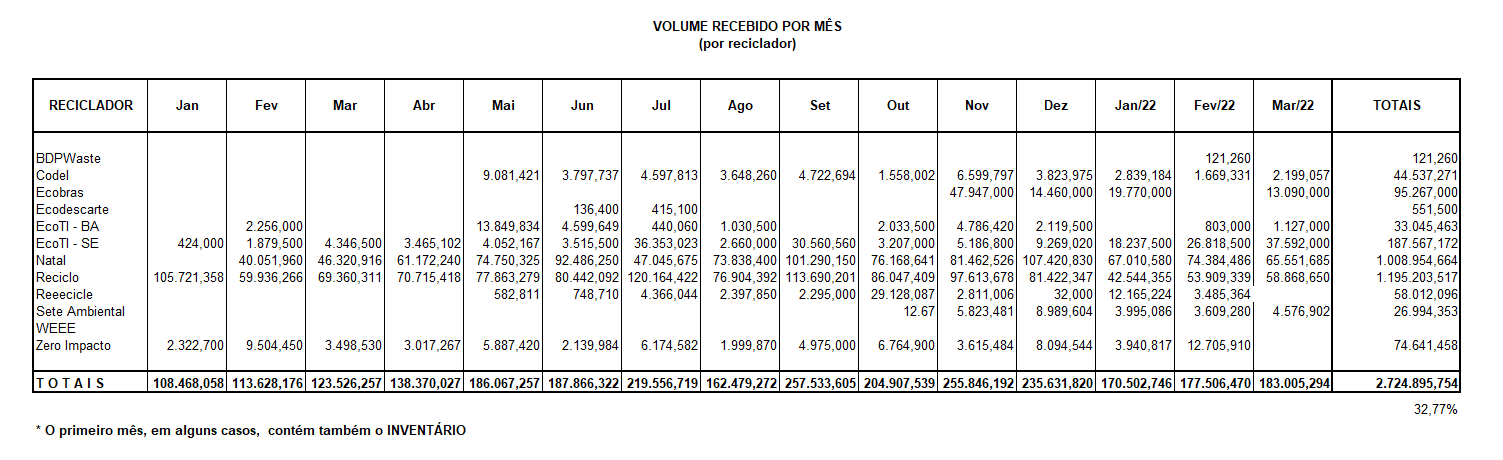
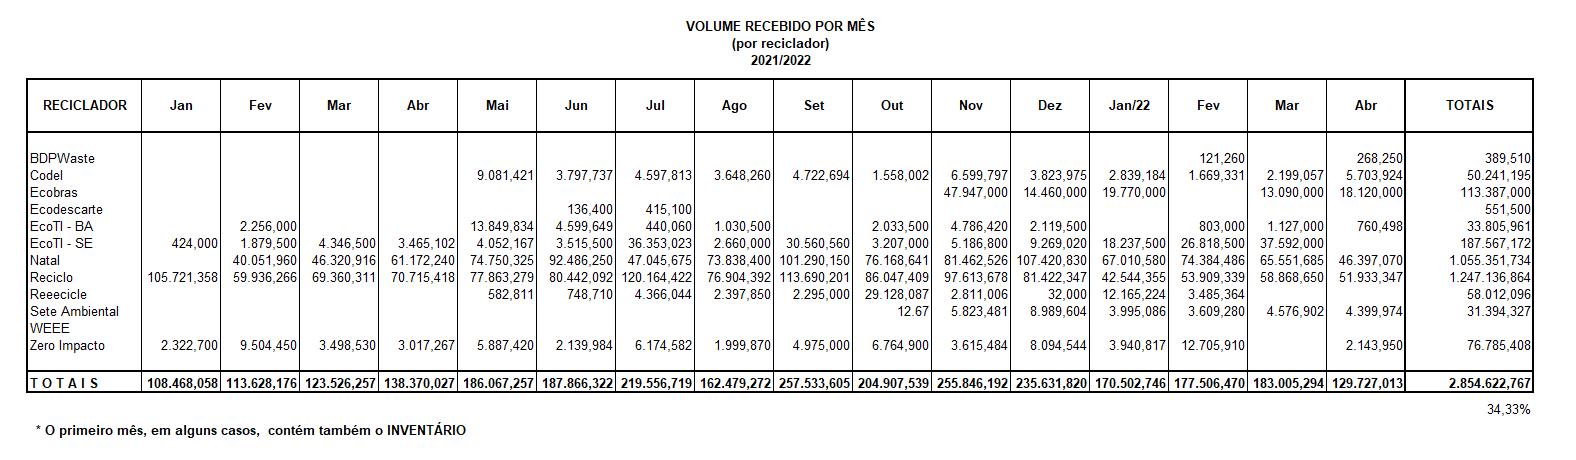
Fechamento de Abril/22

diff --git a/frontend/src/components/DataTable/index.tsx b/frontend/src/components/DataTable/index.tsx
@@ -9,32 +9,32 @@ const DataTable = () => {
                         <th>OT's</th>
                         <th>OS's</th>
                         <th>OD's</th>
-                        <th>Estoque em 31/03/22 (Kg)</th>
+                        <th>Estoque em 30/04/22 (Kg)</th>
                         <th>Peso Reciclado (Kg)</th>
                         
                     </tr>
                     <tr>
                         <td>BDPWaste</td>
                         <td>0</td>
-                        <td>2</td>
+                        <td>6</td>
                         <td>0</td>
-                        <td>121,230</td>
+                        <td>331,654</td>
                         <td>0</td>
                     </tr>
                     <tr>
                         <td>Codel</td>
-                        <td>62</td>
-                        <td>150</td>
-                        <td>375</td>
-                        <td>13.189,647</td>
-                        <td>31.710,806</td>
+                        <td>74</td>
+                        <td>168</td>
+                        <td>432</td>
+                        <td>10.452,530</td>
+                        <td>36.963,069</td>
                     </tr>
                     <tr>
                         <td>Ecobras</td>
                         <td>0</td>
-                        <td>12</td>
+                        <td>13</td>
                         <td>20</td>
-                        <td>70.040,610</td>
+                        <td>88.160,610</td>
                         <td>35.211,400</td>
                     </tr>
                     <tr>
@@ -48,9 +48,9 @@ const DataTable = () => {
                     <tr>
                         <td>EcoTI - BA</td>
                         <td>24</td>
-                        <td>42</td>
-                        <td>31</td>
-                        <td>15.411,242</td>
+                        <td>45</td>
+                        <td>32</td>
+                        <td>14.852,882</td>
                         <td>7.100,271</td>
                     </tr>
                     <tr>
@@ -58,24 +58,24 @@ const DataTable = () => {
                         <td>14</td>
                         <td>158</td>
                         <td>52</td>
-                        <td>97.936,123</td>
+                        <td>97.937,123</td>
                         <td>25.500,530</td>
                     </tr>
                     <tr>
                         <td>Natal</td>
-                        <td>208</td>
-                        <td>1.625</td>
-                        <td>267</td>
-                        <td>107,910,284</td>
-                        <td>898.959,976</td>
+                        <td>233</td>
+                        <td>1.761</td>
+                        <td>304</td>
+                        <td>103.838,907</td>
+                        <td>932.841,977</td>
                     </tr>
                     <tr>
                         <td>Reciclo</td>
-                        <td>463</td>
-                        <td>1.252</td>
-                        <td>870</td>
-                        <td>57.641,078</td>
-                        <td>1.268.840,873</td>
+                        <td>517</td>
+                        <td>1.313</td>
+                        <td>911</td>
+                        <td>74.979,732</td>
+                        <td>1.314.419,309</td>
                     </tr>
                     <tr>
                         <td>Reeecicle</td>
@@ -87,10 +87,10 @@ const DataTable = () => {
                     </tr>
                     <tr>
                         <td>Sete Ambiental</td>
-                        <td>657</td>
-                        <td>485</td>
+                        <td>764</td>
+                        <td>545</td>
                         <td>17</td>
-                        <td>20.592,307</td>
+                        <td>25.491,419</td>
                         <td>609,600</td>
                     </tr>
                     <tr>
@@ -104,9 +104,9 @@ const DataTable = () => {
                     <tr>
                         <td>Zero Impacto</td>
                         <td>73</td>
-                        <td>361</td>
+                        <td>379</td>
                         <td>32</td>
-                        <td>37.337,744</td>
+                        <td>39.125,605</td>
                         <td>29.497,159</td>
                     </tr>
                     <tr>
@@ -119,11 +119,11 @@ const DataTable = () => {
                     </tr>
                     <tr>
                         <th>T O T A I S</th>
-                        <th>1.587</th>
-                        <th>4.309</th>
-                        <th>1.736</th>
-                        <th>455.813,772</th>
-                        <th>2.297.614,815</th>
+                        <th>1.785</th>
+                        <th>4.616</th>
+                        <th>1.872</th>
+                        <th>490.593,545</th>
+                        <th>2.382.327,515</th>
                     </tr>
                 </thead>
                 <tbody>

diff --git a/frontend/src/components/BarRecbMensal/index.tsx b/frontend/src/components/BarRecbMensal/index.tsx
@@ -16,12 +16,12 @@ const BarRecbMensal = () => {
     
     const mockData = {
         labels: {
-            categories: ['Jan', 'Fev', 'Mar', 'Abr', 'Mai', 'Jun', 'Jul', 'Ago', 'Set', 'Out', 'Nov', 'Dez', 'Jan/22', 'Fev', 'Mar']
+            categories: ['Jan', 'Fev', 'Mar', 'Abr', 'Mai', 'Jun', 'Jul', 'Ago', 'Set', 'Out', 'Nov', 'Dez', 'Jan/22', 'Fev', 'Mar', 'Abr']
         },
         series: [
             {
                 name: "Kg Recebidos",
-                data: [108468, 113628,	123526, 138370, 186067, 187866, 219556, 162479, 257534, 204908, 255846, 235632, 170503, 177506, 183005]                  
+                data: [108468, 113628,	123526, 138370, 186067, 187866, 219556, 162479, 257534, 204908, 255846, 235632, 170503, 177506, 183005, 129727 ]                  
             }
         ]
     };

diff --git a/frontend/src/components/DonutChart/index.tsx b/frontend/src/components/DonutChart/index.tsx
@@ -3,7 +3,7 @@ import Chart from 'react-apexcharts';
 const DonutChart = () => {
 
     const mockData = {
-        series: [0, 29.565, 3.991, 0, 3.794, 25.501, 769.489, 1128.987, 0.184, 0.555, 0, 17.224],
+        series: [0, 36.963, 35.211, 0, 7.100, 25.501, 932.842, 1314.419, 0.184, 0.610, 0, 29.497],
         labels: ['BDPWaste', 'Codel', 'Ecobras', 'Ecodescarte', 'EcoTI - BA', 'EcoTI - SE', 'Natal', 'Reciclo', 'Reeecicle', 'Sete Ambiental', 'WEEE', 'Zero Impacto']
     }
     

diff --git a/frontend/src/components/BarReciclMensal/index.tsx b/frontend/src/components/BarReciclMensal/index.tsx
@@ -21,7 +21,7 @@ const BarReciclMensal = () => {
         series: [
             {
                 name: "Kg Reciclados",
-                data: [26339, 90712, 93643, 142116, 166545, 219788, 189244, 197028, 209382, 176002, 176982, 162728, 128780, 136990, 181336]                  
+                data: [26339, 90712, 93643, 142116, 166545, 219788, 189244, 197028, 209382, 176002, 176982, 162728, 128780, 136990, 181336, 84713]                  
             }
         ]
     };

diff --git a/frontend/src/components/BarChart/index.tsx b/frontend/src/components/BarChart/index.tsx
@@ -17,7 +17,7 @@ const BarChart = () => {
         series: [
             {
                 name: "Ton Reciclados",
-                data: [0, 31.711, 35.211, 0, 7.100, 25.501, 898.960, 1268.841, 0.184, 0.610, 0, 29.497]                  
+                data: [0, 36.963, 35.211, 0, 7.100, 25.501, 932.842, 1314.419, 0.184, 0.610, 0, 29.497]                  
             }
         ]
     };

diff --git a/frontend/src/components/BarOSs/index.tsx b/frontend/src/components/BarOSs/index.tsx
@@ -22,7 +22,7 @@ const BarOSs = () => {
         series: [
             {
                 name: "OS's Abertas",
-                data: [2, 150, 12, 6, 42, 158, 1625, 1252, 206, 485, 12, 361]                  
+                data: [6, 168, 13, 6, 45, 158, 1761, 1323, 206, 545, 12, 379]                  
             }
         ]
     };

diff --git a/frontend/src/components/BarODs/index.tsx b/frontend/src/components/BarODs/index.tsx
@@ -22,7 +22,7 @@ const BarODs = () => {
         series: [
             {
                 name: "OD's Abertas",
-                data: [0, 375, 20, 0, 31, 52, 267, 870, 1, 17, 71, 32]                  
+                data: [0, 432, 20, 0, 32, 52, 304, 911, 1, 17, 71, 32]                  
             }
         ]
     };

diff --git a/frontend/src/components/BarOTs/index.tsx b/frontend/src/components/BarOTs/index.tsx
@@ -22,7 +22,7 @@ const BarOTs = () => {
         series: [
             {
                 name: "OT's Abertas",
-                data: [0, 62, 0, 37, 24, 14, 208, 463, 49, 657, 0, 73]                  
+                data: [0, 74, 0, 37, 24, 14, 233, 517, 49, 764, 0, 73]                  
             }
         ]
     };
